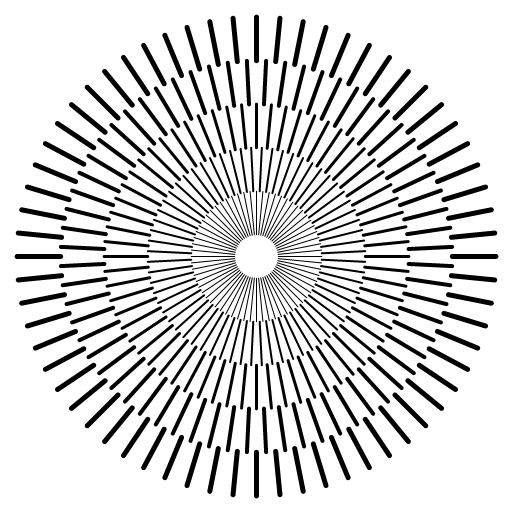
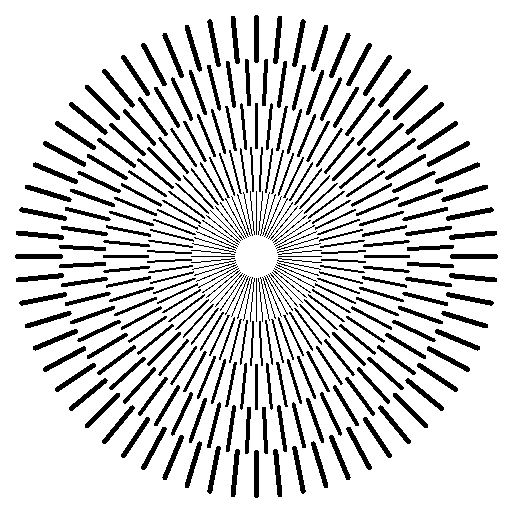
A : add line super sampling

diff --git a/line_supersampling.c b/line_supersampling.c
@@ -53,13 +53,24 @@ int main()
 {
     unsigned char *p = img;
     // memset(img, 255, sizeof(img));
+
+    int sh = 5;
+    int sw = 5;
     for (int y = 0; y < H; y++)
     {
         for (int x = 0; x < W; x++, p += 3)
         {
-            p[0] = p[1] = p[2] = (unsigned char)((1 - sample(x, y)) * 255);
+            float sum = 0;
+            for (int j = -sh / 2; j <= sh / 2; j++)
+            {
+                for (int i = -sw / 2; i <= sw / 2; i++)
+                {
+                    sum += sample(x + (float) i / sw, y + (float) j / sh);
+                }
+            }
+            p[0] = p[1] = p[2] = (unsigned char)((1 - sum / (sh * sw)) * 255);
         }
     }
 
-    svpng(fopen("line_sampling.png", "wb"), W, H, img, 0);
+    svpng(fopen("line_supersampling.png", "wb"), W, H, img, 0);
 }
